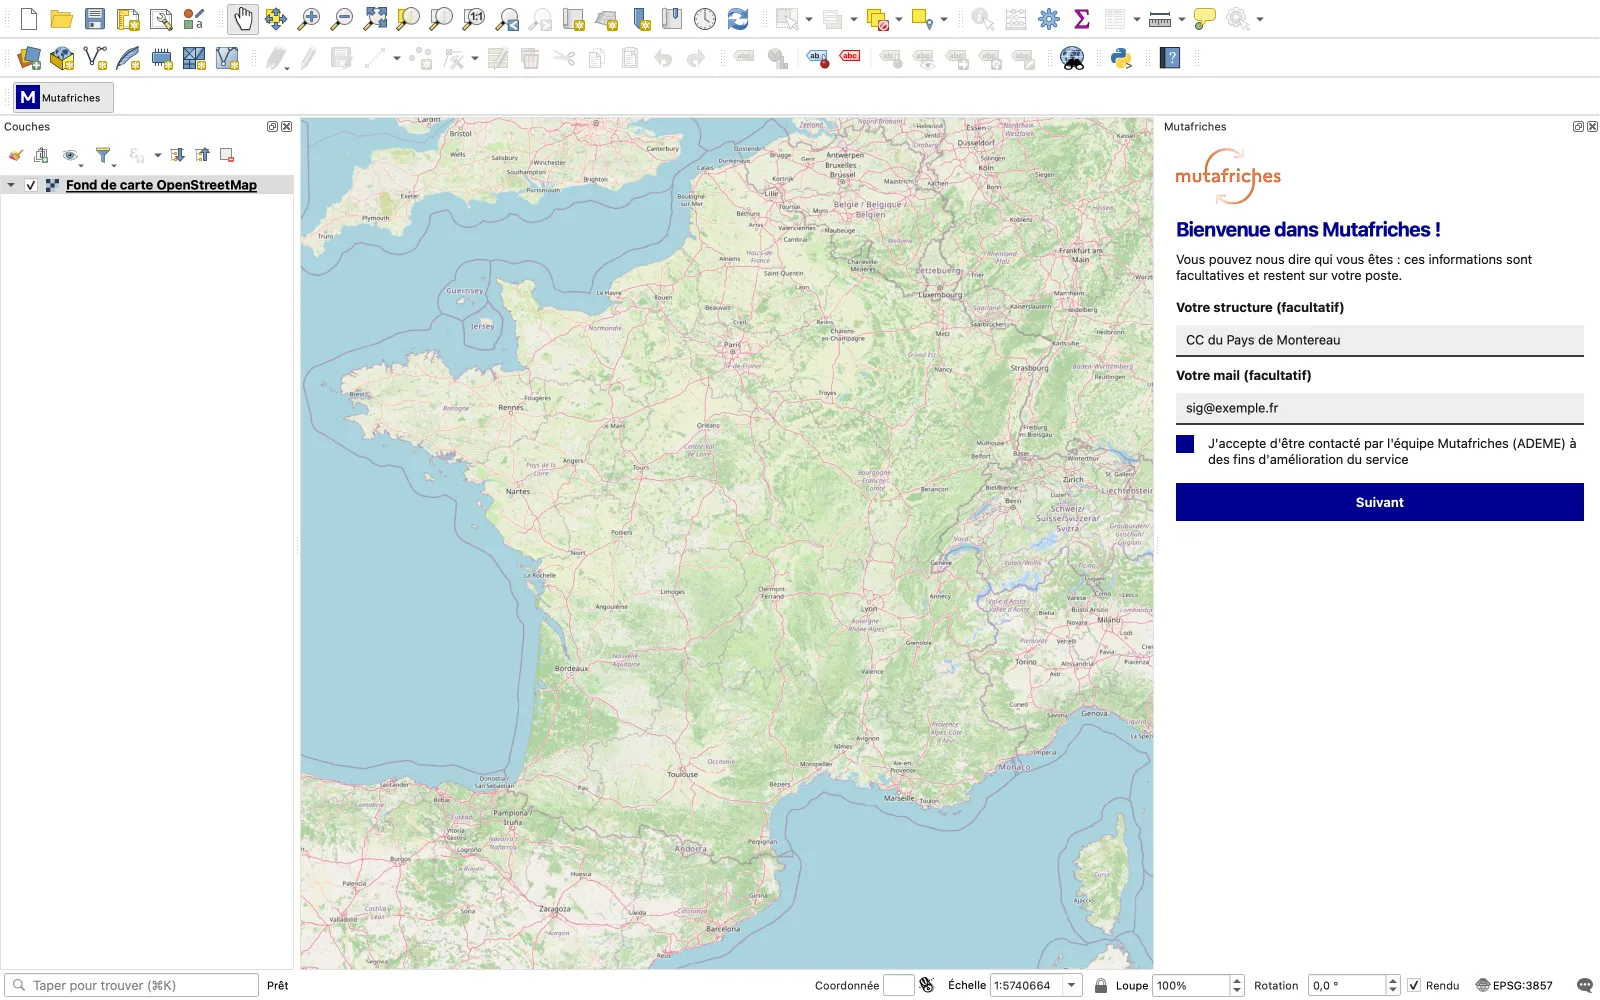
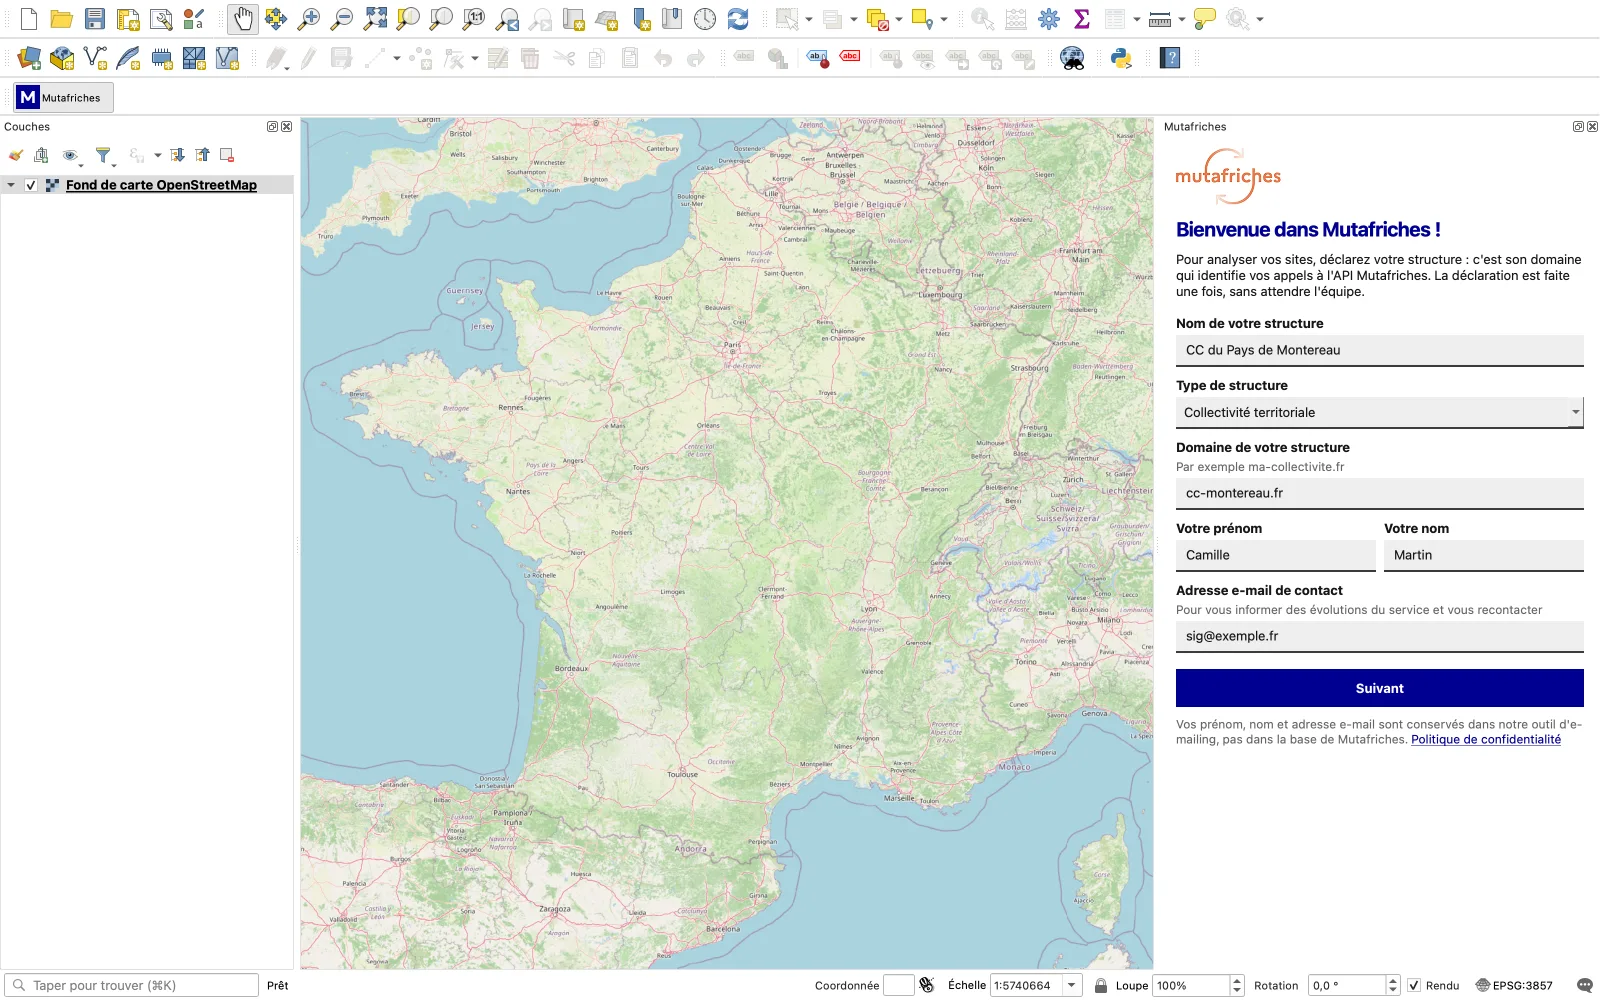
docs(tutoriel-qgis): étape d'accueil avec la déclaration de la structure (#280)
L'extension 0.4.0 demande désormais de déclarer sa structure au lieu de champs facultatifs.

Changed region(s): [[0.7188, 0.248, 1.0, 0.744]]

diff --git a/apps/ui/src/features/integrer/data/tutoriel-qgis.ts b/apps/ui/src/features/integrer/data/tutoriel-qgis.ts
@@ -87,16 +87,17 @@ export const ETAPES_TUTORIEL_QGIS: EtapeTutorielQgis[] = [
   },
   {
     id: "se-presenter",
-    titre: "Ouvrir le plugin et s'identifier",
+    titre: "Ouvrir le plugin et déclarer sa structure",
     paragraphes: [
-      "Cliquez sur le bouton Mutafriches : le plugin s'ouvre à droite de la carte. Vous pouvez indiquer votre structure et votre adresse mail (facultatif), puis cliquez sur « Suivant ».",
+      "Cliquez sur le bouton Mutafriches : le plugin s'ouvre à droite de la carte. Déclarez votre structure (nom, type et domaine, par exemple ma-collectivite.fr), indiquez vos prénom, nom et adresse e-mail, puis cliquez sur « Suivant ».",
+      "Cette déclaration, faite une seule fois, identifie vos analyses auprès de Mutafriches. Vos prénom, nom et adresse e-mail sont conservés dans notre outil d'e-mailing, pas dans la base de Mutafriches.",
     ],
     aSavoir:
       "Si votre projet QGIS est vide, l'extension y ajoute un fond de carte OpenStreetMap cadré sur la France, pour situer vos sites. Si votre projet contient déjà des couches, elle n'y touche pas : vos sites s'afficheront par-dessus vos propres fonds.",
     captures: [
       {
         fichier: "02-se-presenter.webp",
-        alt: "QGIS avec un fond de carte de la France au centre et le panneau Mutafriches ouvert à droite : formulaire « Bienvenue dans Mutafriches » avec les champs facultatifs structure et mail, une case de consentement et le bouton « Suivant ».",
+        alt: "QGIS avec un fond de carte de la France au centre et le panneau Mutafriches ouvert à droite : formulaire « Bienvenue dans Mutafriches » de déclaration de la structure : nom, type, domaine, prénom, nom et adresse e-mail, puis le bouton « Suivant ».",
       },
     ],
   },
